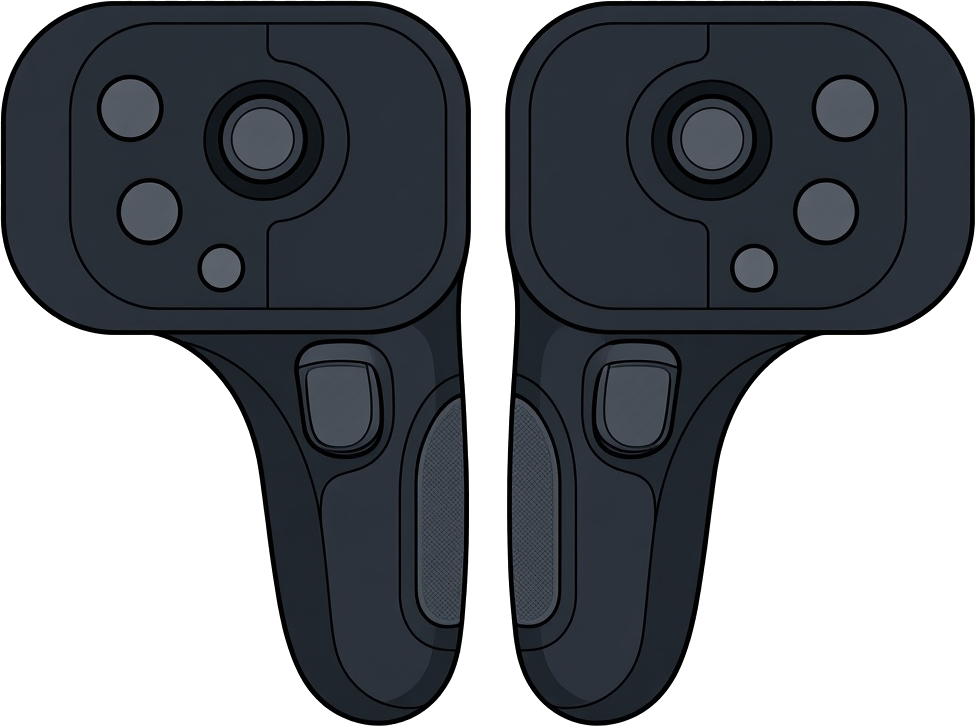
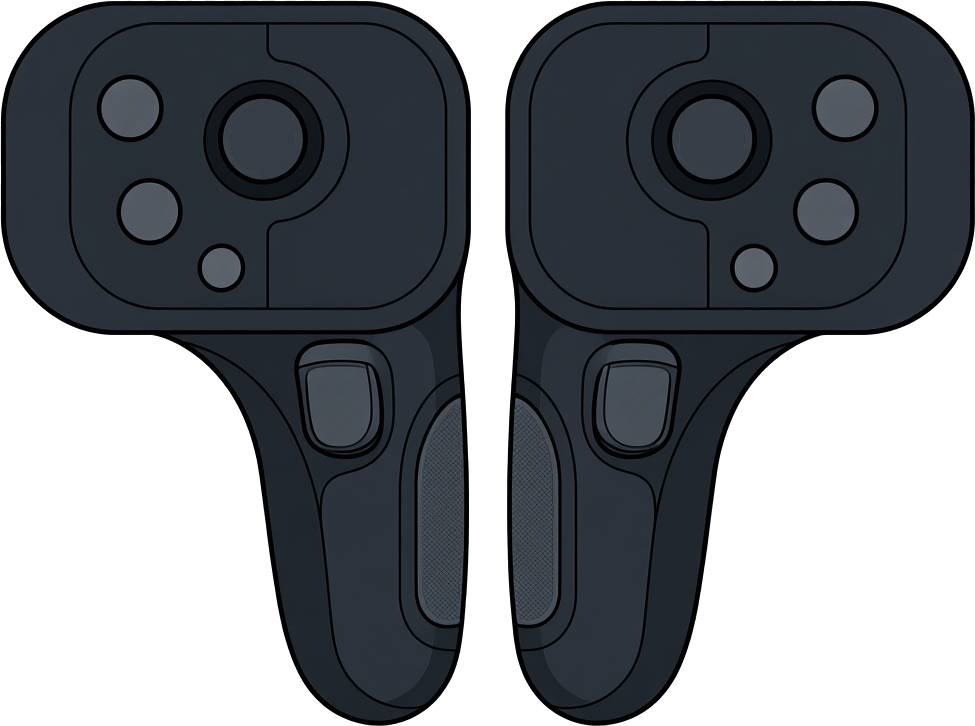
The launch sweep preserves the install, and VR sticks deflect
Two fixes, one blocker.

The startup orphan sweep called HMContext.RemoveAllVirtualControllers()
with no argument. That overload is uninstall-grade: it deletes the whole
HKLM\SOFTWARE\HIDMaestro tree. It was the only overload that existed
when this call was written on 2026-04-20; HIDMaestro added the
preserving one in its 2026-07-21 perf audit and moved its own call site
over, and PadForge never followed. Cost per launch: the ~3 s full deploy
pipeline, because the same-version fast path could never fire; the
SteamVRPath hint that locates a steamcmd SteamVR; and the VR driver's
registration gate. Losing that gate made every launch re-extract
driver_hidmaestro.dll into a running vrserver.exe, which holds it
loaded, so VR slot creation died on a sharing violation. Devices and
orphans are still evicted, which is the only reason this sweep exists.
Verified: the gate now survives a restart with SteamVR running, where
it was measured absent after every prior launch.

The VR preview's sticks were the one element that never moved. They now
translate with deflection like every branded preview's stick ring, via
a cap layer cut from the base art with the socket underneath filled in
the surrounding body color. The stick's overlay and its region
highlight share the cap's transform so they ride with it. VrRawState
keeps the SDL screen frame, so unlike the XInput previews the Y axis
takes no negation here.

Changed region(s): [[0.6769, 0.1515, 0.7692, 0.2424], [0.2154, 0.1515, 0.3077, 0.2424]]

diff --git a/PadForge.App/Views/VRPreviewView.xaml.cs b/PadForge.App/Views/VRPreviewView.xaml.cs
@@ -88,6 +88,16 @@ namespace PadForge.Views
         // more than one target, so every one of them gets a highlight.
         private readonly Dictionary<string, Image> _regionHighlights = new(StringComparer.Ordinal);
 
+        // Stick caps translate with deflection like every branded preview's
+        // stick ring (ControllerModel2DView: always-visible image + a
+        // TranslateTransform driven from the raw axes). The cap art is the
+        // stick's pixels cut from the base (the base keeps an inpainted
+        // socket underneath), and the stick's cyan overlay + region
+        // highlight share the same transform so they ride the cap.
+        // 14 px ~= the branded 25-per-~100px-ring travel ratio at 64 px.
+        private const double StickTravel = 14;
+        private TranslateTransform _lStickT, _rStickT;
+
         public VRPreviewView()
         {
             InitializeComponent();
@@ -147,11 +157,32 @@ namespace PadForge.Views
                 VrCanvas.Children.Add(img);
             }
 
+            _lStickT = AddStickCap("L", 231, 107, 64, 64);
+            _rStickT = AddStickCap("R", 680, 107, 64, 64);
+
             var st = Strings.Instance;
             foreach (var el in Elements)
                 AddElement(el, DisplayName(el.Target, st));
 
             _built = true;
+        }
+
+        /// <summary>The movable stick-cap layer: above the base (and its
+        /// socket), below the element overlays added afterwards.</summary>
+        private TranslateTransform AddStickCap(string side, double x, double y, double w, double h)
+        {
+            var t = new TranslateTransform();
+            var art = EmbeddedBitmaps.Load($"2DModels/VRCONTROLLER/VRController_{side}_StickCap.png");
+            if (art == null) return t;
+            var img = new Image
+            {
+                Source = art, Width = w, Height = h,
+                Stretch = Stretch.Fill, IsHitTestVisible = false,
+                RenderTransform = t,
+            };
+            Canvas.SetLeft(img, x); Canvas.SetTop(img, y);
+            VrCanvas.Children.Add(img);
+            return t;
         }
 
         private void AddElement(Elem el, string displayName)
@@ -174,6 +205,10 @@ namespace PadForge.Views
             _overlays[el.Target] = overlay;
 
             bool isMulti = !el.Target.EndsWith("System", StringComparison.Ordinal);
+            bool isStick = el.Target.EndsWith("Stick", StringComparison.Ordinal);
+            if (isStick)
+                overlay.RenderTransform =
+                    el.Target.StartsWith("VrL", StringComparison.Ordinal) ? _lStickT : _rStickT;
 
             if (isMulti)
             {
@@ -190,6 +225,9 @@ namespace PadForge.Views
                 };
                 if (art != null) highlight.Source = art;
                 Canvas.SetLeft(highlight, el.X); Canvas.SetTop(highlight, el.Y);
+                if (isStick)
+                    highlight.RenderTransform =
+                        el.Target.StartsWith("VrL", StringComparison.Ordinal) ? _lStickT : _rStickT;
                 VrCanvas.Children.Add(highlight);
                 _regionHighlights[el.Target] = highlight;
             }
@@ -440,6 +478,20 @@ namespace PadForge.Views
 
             PaintHand(in vr.Left, "VrL", flashElem);
             PaintHand(in vr.Right, "VrR", flashElem);
+
+            // Stick caps ride the raw axes. VrRawState keeps the SDL screen
+            // frame (positive Y = down; the OpenVR Y-up flip happens at
+            // PackHand), so unlike the XInput previews no negation here.
+            if (_lStickT != null)
+            {
+                _lStickT.X = vr.Left.StickX / 32767.0 * StickTravel;
+                _lStickT.Y = vr.Left.StickY / 32767.0 * StickTravel;
+            }
+            if (_rStickT != null)
+            {
+                _rStickT.X = vr.Right.StickX / 32767.0 * StickTravel;
+                _rStickT.Y = vr.Right.StickY / 32767.0 * StickTravel;
+            }
 
             foreach (var key in _regionHighlights.Keys)
                 PaintRegionFlash(key);

diff --git a/PadForge.App/App.xaml.cs b/PadForge.App/App.xaml.cs
@@ -207,9 +207,25 @@ namespace PadForge
             // returns immediately; InputManager.UpdateDevices awaits this
             // task before the first enumeration so stale HM HIDs are gone
             // by the time PadForge looks at its device list.
+            //
+            // preserveInstall: TRUE. This is a launch sweep, and HM's own
+            // doc names that as the case for it. Devices and orphans are
+            // still evicted (the preserve flag guards only package removal
+            // and the HKLM\SOFTWARE\HIDMaestro delete), which is the whole
+            // reason this sweep exists. The uninstall-grade overload was
+            // the only one that existed when this was written (2026-04-20);
+            // HM added the preserving one in its 2026-07-21 perf audit and
+            // moved its own call site over. Staying on the nuking overload
+            // cost three things every single launch: the ~3 s full deploy
+            // pipeline (the same-version fast path could never fire), the
+            // SteamVRPath hint that lets a steamcmd SteamVR be found, and
+            // the VR driver's registration gate. Losing that gate made
+            // every launch re-extract driver_hidmaestro.dll into a running
+            // vrserver.exe and fail the VR slot with a sharing violation
+            // (owner report 2026-08-08).
             OrphanSweepTask = System.Threading.Tasks.Task.Run(() =>
             {
-                try { HIDMaestro.HMContext.RemoveAllVirtualControllers(); }
+                try { HIDMaestro.HMContext.RemoveAllVirtualControllers(preserveInstall: true); }
                 catch { /* best effort — continue without sweep */ }
                 // HM#38 consumer-side ordering hygiene: RemoveAll returns when
                 // the CALL completes, not when PnP removal completes, and a
